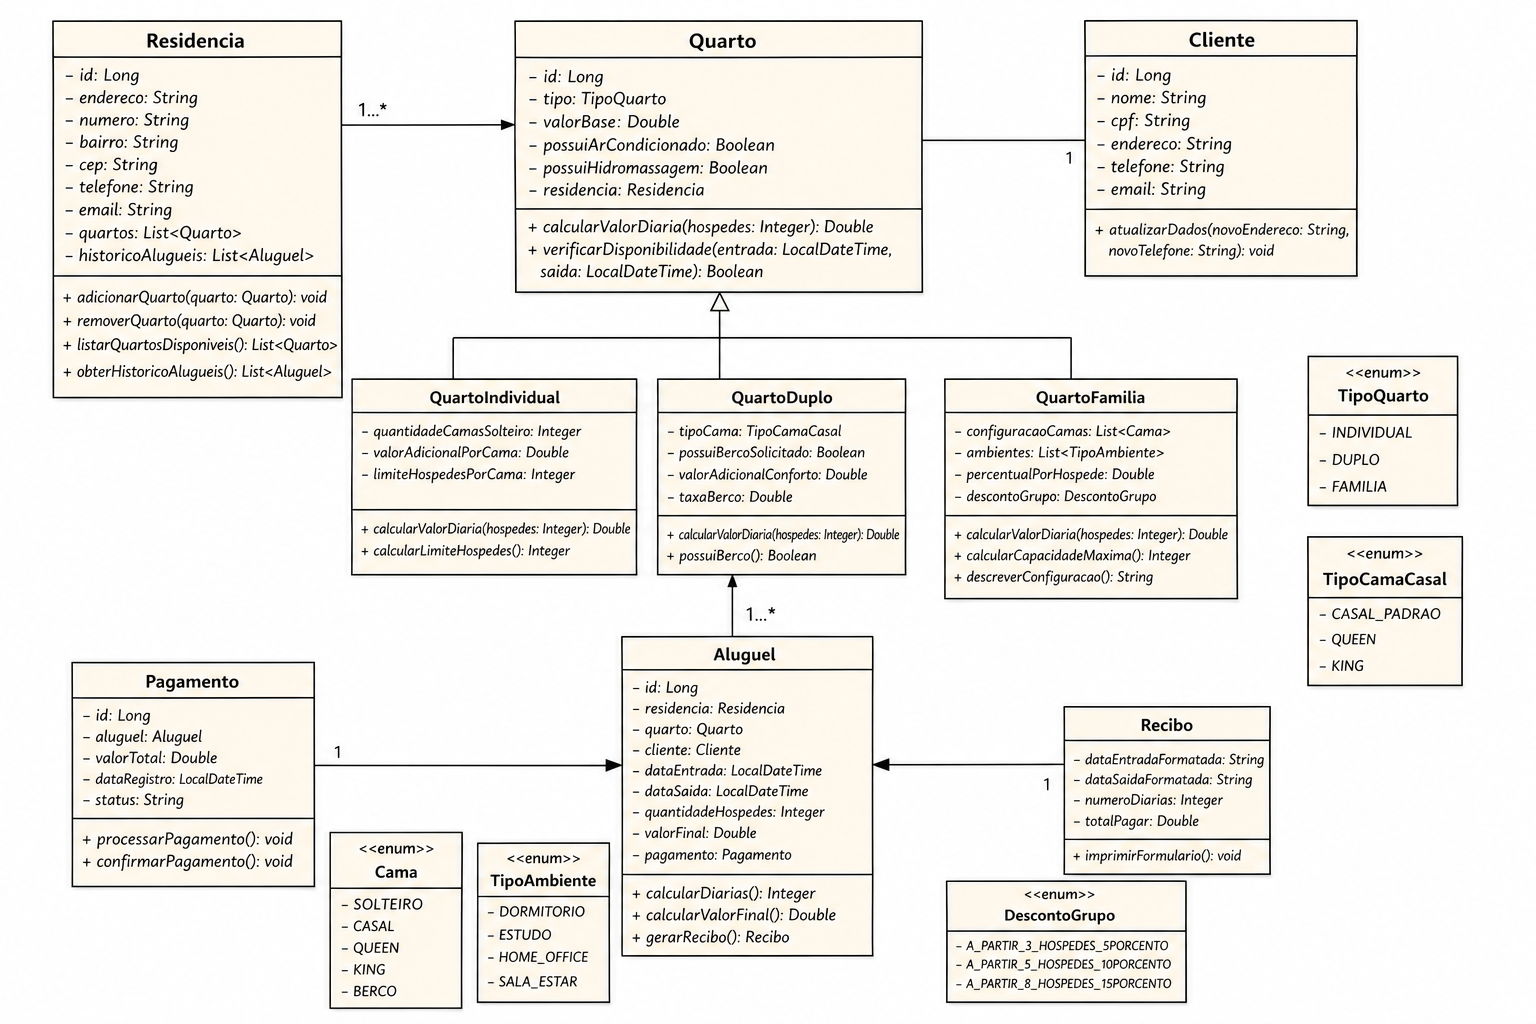
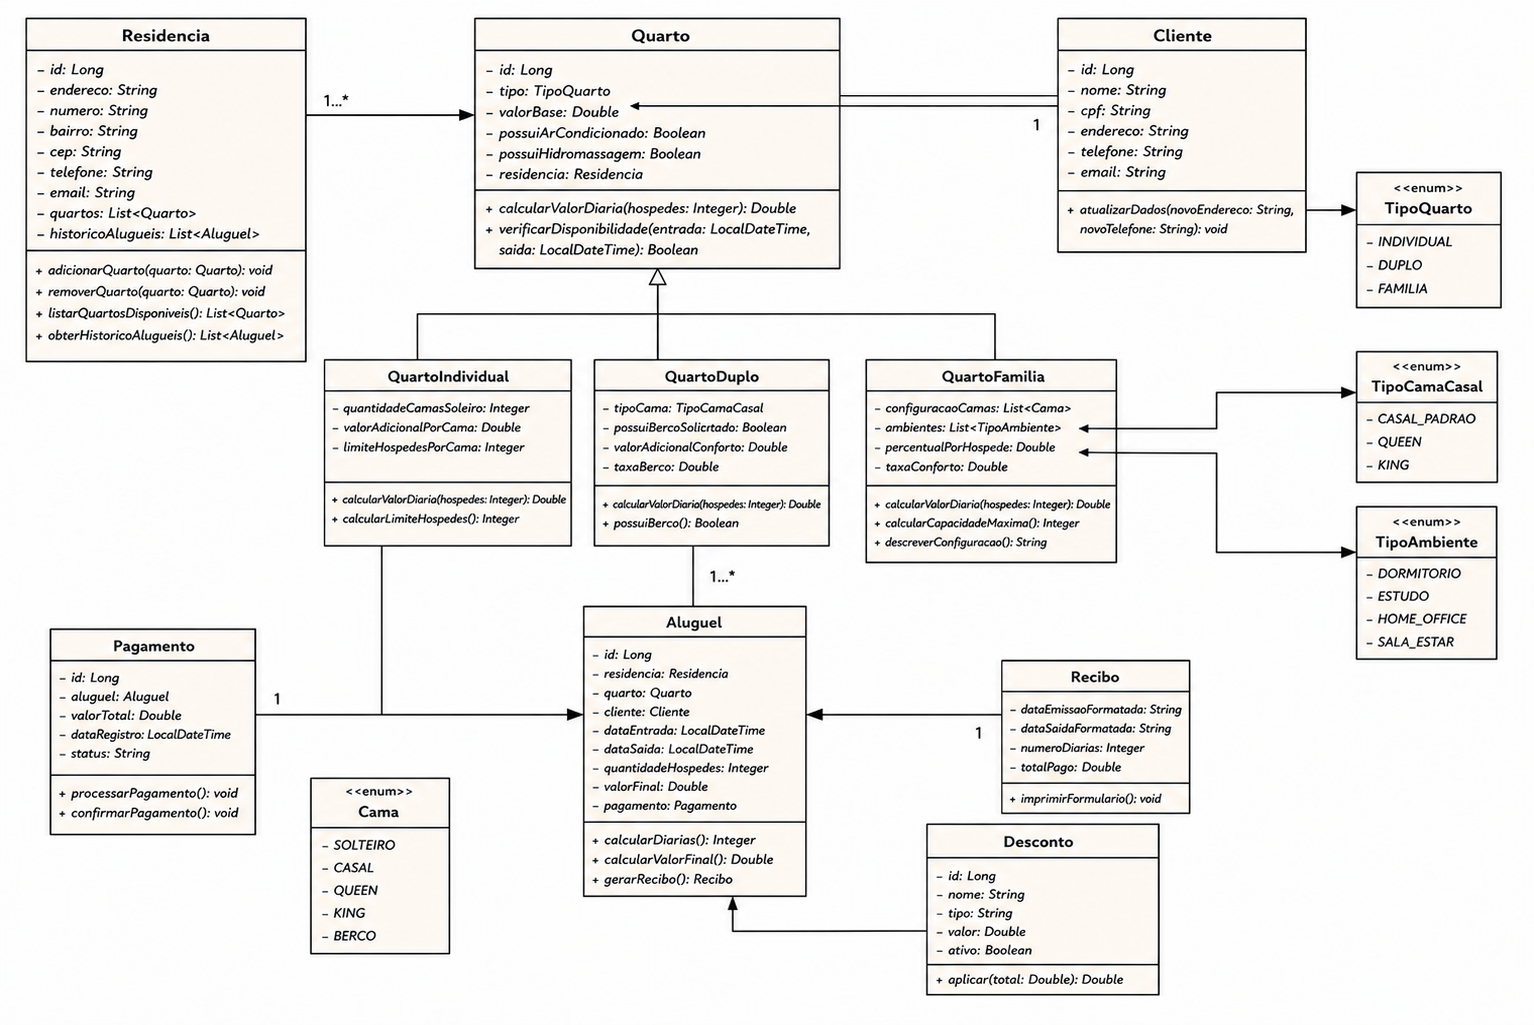
Testes

diff --git a/back/src/test/java/com/example/maraureserve/services/AluguelServiceTest.java b/back/src/test/java/com/example/maraureserve/services/AluguelServiceTest.java
@@ -1,127 +1,114 @@
 package com.example.maraureserve.services;
 
-import static org.junit.jupiter.api.Assertions.assertThrows;
-import static org.mockito.Mockito.verify;
-import static org.mockito.Mockito.verifyNoInteractions;
-import static org.mockito.Mockito.when;
+import static org.junit.jupiter.api.Assertions.*;
+import static org.mockito.Mockito.*;
 
 import java.math.BigDecimal;
 import java.time.LocalDateTime;
 import java.util.List;
 
+import org.junit.jupiter.api.BeforeEach;
 import org.junit.jupiter.api.Test;
 import org.junit.jupiter.api.extension.ExtendWith;
+import org.mockito.InjectMocks;
 import org.mockito.Mock;
 import org.mockito.junit.jupiter.MockitoExtension;
 
-import com.example.maraureserve.common.exception.BusinessException;
-import com.example.maraureserve.common.exception.DataInvalidaException;
-import com.example.maraureserve.common.exception.QuartoIndisponivelException;
 import com.example.maraureserve.dtos.AluguelRequest;
 import com.example.maraureserve.models.Aluguel;
 import com.example.maraureserve.models.Cliente;
 import com.example.maraureserve.models.Quarto;
 import com.example.maraureserve.models.Residencia;
-import com.example.maraureserve.models.TipoQuarto;
 import com.example.maraureserve.repositories.AluguelRepository;
+import com.example.maraureserve.common.exception.CapacidadeExcedidaException;
+import com.example.maraureserve.common.exception.RecursoNaoPermitidoException;
+import com.example.maraureserve.common.exception.QuartoIndisponivelException;
 
 @ExtendWith(MockitoExtension.class)
 class AluguelServiceTest {
 
     @Mock
     private AluguelRepository aluguelRepository;
-
     @Mock
     private ResidenciaService residenciaService;
-
     @Mock
     private QuartoService quartoService;
-
     @Mock
     private ClienteService clienteService;
 
-    @Test
-    void criarDeveLancarDataInvalidaExceptionQuandoCheckoutNaoForPosteriorAoCheckin() {
-        AluguelService service = criarService();
-        LocalDateTime dataEntrada = LocalDateTime.now().plusDays(3);
-        LocalDateTime dataSaida = dataEntrada.minusHours(1);
-        AluguelRequest request = criarRequest(dataEntrada, dataSaida);
+    @InjectMocks
+    private AluguelService aluguelService;
 
-        assertThrows(DataInvalidaException.class, () -> service.criar(request));
-        verifyNoInteractions(residenciaService, quartoService, clienteService, aluguelRepository);
+    private AluguelRequest requestValido;
+    private Residencia residencia;
+    private Quarto quarto;
+    private Cliente cliente;
+
+    @BeforeEach
+    void setUp() {
+        residencia = new Residencia();
+        residencia.setId(1L);
+
+        quarto = mock(Quarto.class);
+        when(quarto.getId()).thenReturn(1L);
+        when(quarto.getResidencia()).thenReturn(residencia);
+        
+        cliente = new Cliente();
+        cliente.setId(1L);
+
+        requestValido = new AluguelRequest(
+                1L, 
+                1L, 
+                1L, 
+                LocalDateTime.now().plusDays(1), 
+                LocalDateTime.now().plusDays(3), 
+                2, 
+                false
+        );
     }
 
     @Test
-    void criarDeveLancarDataInvalidaExceptionQuandoDatasForemNulas() {
-        AluguelService service = criarService();
-        AluguelRequest request = criarRequest(null, null);
-
-        assertThrows(DataInvalidaException.class, () -> service.criar(request));
-        verifyNoInteractions(residenciaService, quartoService, clienteService, aluguelRepository);
-    }
-
-    @Test
-    void criarDeveLancarQuartoIndisponivelExceptionQuandoExistirConflitoDePeriodo() {
-        AluguelService service = criarService();
-        LocalDateTime dataEntrada = LocalDateTime.now().plusDays(3);
-        LocalDateTime dataSaida = dataEntrada.plusDays(2);
-        AluguelRequest request = criarRequest(dataEntrada, dataSaida);
-        Residencia residencia = criarResidencia();
-        Quarto quarto = criarQuarto(residencia);
-        Cliente cliente = criarCliente();
-
+    void testLimitesDeHospedes_CapacidadeExcedida_LancaExcecao() {
+        when(quarto.getCapacidadeMaxima()).thenReturn(1);
         when(residenciaService.buscarEntidade(1L)).thenReturn(residencia);
-        when(quartoService.buscarEntidade(2L)).thenReturn(quarto);
-        when(clienteService.buscarEntidade(3L)).thenReturn(cliente);
-        when(aluguelRepository.buscarConflitos(2L, dataEntrada, dataSaida, null))
+        when(quartoService.buscarEntidade(1L)).thenReturn(quarto);
+        when(clienteService.buscarEntidade(1L)).thenReturn(cliente);
+
+        assertThrows(CapacidadeExcedidaException.class, () -> {
+            aluguelService.criar(requestValido);
+        });
+    }
+
+    @Test
+    void testRegrasDeBerco_BercoSolicitadoENaoPermitido_LancaExcecao() {
+        AluguelRequest requestComBerco = new AluguelRequest(
+                1L, 1L, 1L, LocalDateTime.now().plusDays(1), LocalDateTime.now().plusDays(3), 2, true
+        );
+        
+        when(quarto.getCapacidadeMaxima()).thenReturn(4);
+        when(quarto.getPermiteBerco()).thenReturn(false);
+        when(residenciaService.buscarEntidade(1L)).thenReturn(residencia);
+        when(quartoService.buscarEntidade(1L)).thenReturn(quarto);
+        when(clienteService.buscarEntidade(1L)).thenReturn(cliente);
+
+        assertThrows(RecursoNaoPermitidoException.class, () -> {
+            aluguelService.criar(requestComBerco);
+        });
+    }
+
+    @Test
+    void testDisponibilidade_QuartoIndisponivel_LancaExcecao() {
+        when(quarto.getCapacidadeMaxima()).thenReturn(4);
+        when(quarto.getPermiteBerco()).thenReturn(true);
+        when(residenciaService.buscarEntidade(1L)).thenReturn(residencia);
+        when(quartoService.buscarEntidade(1L)).thenReturn(quarto);
+        when(clienteService.buscarEntidade(1L)).thenReturn(cliente);
+        
+        when(aluguelRepository.buscarConflitos(eq(1L), any(LocalDateTime.class), any(LocalDateTime.class), isNull()))
                 .thenReturn(List.of(new Aluguel()));
 
-        assertThrows(QuartoIndisponivelException.class, () -> service.criar(request));
-    }
-
-    @Test
-    void cancelarDeveLancarBusinessExceptionQuandoReservaJaIniciou() {
-        AluguelService service = criarService();
-        Aluguel aluguel = new Aluguel();
-        aluguel.setId(10L);
-        aluguel.setDataEntrada(LocalDateTime.now().minusDays(1));
-        aluguel.setDataSaida(LocalDateTime.now().plusDays(1));
-
-        when(aluguelRepository.findById(10L)).thenReturn(java.util.Optional.of(aluguel));
-
-        assertThrows(BusinessException.class, () -> service.cancelar(10L));
-        verify(aluguelRepository).findById(10L);
-        verifyNoInteractions(residenciaService, quartoService, clienteService);
-    }
-
-    private AluguelService criarService() {
-        return new AluguelService(aluguelRepository, residenciaService, quartoService, clienteService);
-    }
-
-    private AluguelRequest criarRequest(LocalDateTime dataEntrada, LocalDateTime dataSaida) {
-        return new AluguelRequest(1L, 2L, 3L, dataEntrada, dataSaida, 2, false);
-    }
-
-    private Residencia criarResidencia() {
-        Residencia residencia = new Residencia();
-        residencia.setId(1L);
-        return residencia;
-    }
-
-    private Quarto criarQuarto(Residencia residencia) {
-        Quarto quarto = new Quarto();
-        quarto.setId(2L);
-        quarto.setResidencia(residencia);
-        quarto.setTipo(TipoQuarto.FAMILIA);
-        quarto.setValorBase(BigDecimal.valueOf(200));
-        quarto.setCapacidadeMaxima(4);
-        quarto.setPermiteBerco(false);
-        return quarto;
-    }
-
-    private Cliente criarCliente() {
-        Cliente cliente = new Cliente();
-        cliente.setId(3L);
-        return cliente;
+        assertThrows(QuartoIndisponivelException.class, () -> {
+            aluguelService.criar(requestValido);
+        });
     }
 }

diff --git a/back/src/test/java/com/example/maraureserve/services/QuartoTest.java b/back/src/test/java/com/example/maraureserve/services/QuartoTest.java
@@ -1,0 +1,68 @@
+package com.example.maraureserve.models;
+
+import static org.junit.jupiter.api.Assertions.*;
+
+import java.math.BigDecimal;
+import org.junit.jupiter.api.Test;
+
+class QuartoTest {
+
+    @Test
+    void testCalculoDiaria_QuartoIndividual_ComAdicionalDeCama() {
+        QuartoIndividual quarto = new QuartoIndividual();
+        quarto.setValorBase(BigDecimal.valueOf(100.0));
+        quarto.setQuantidadeCamasSolteiro(2);
+        quarto.setValorAdicionalPorCama(BigDecimal.valueOf(30.0));
+        
+        // Regra: ValorBase (100) + adicional (30) para 2ª cama
+        BigDecimal valorEsperado = BigDecimal.valueOf(130.0);
+        BigDecimal valorCalculado = quarto.calcularValorDiaria(2, false);
+        
+        assertEquals(0, valorEsperado.compareTo(valorCalculado));
+    }
+
+    @Test
+    void testCalculoDiaria_QuartoDuplo_SemBerco_ComAdicionalConforto() {
+        QuartoDuplo quarto = new QuartoDuplo();
+        quarto.setValorBase(BigDecimal.valueOf(150.0));
+        quarto.setTipoCama(TipoCamaCasal.QUEEN);
+        quarto.setValorAdicionalConforto(BigDecimal.valueOf(50.0)); 
+        quarto.setTaxaBerco(BigDecimal.valueOf(40.0));
+        
+        // Regra: ValorBase (150) + adicional conforto (50)
+        BigDecimal valorEsperado = BigDecimal.valueOf(200.0);
+        BigDecimal valorCalculado = quarto.calcularValorDiaria(2, false);
+        
+        assertEquals(0, valorEsperado.compareTo(valorCalculado));
+    }
+
+    @Test
+    void testCalculoDiaria_QuartoDuplo_ComTaxaDeBerco() {
+        QuartoDuplo quarto = new QuartoDuplo();
+        quarto.setValorBase(BigDecimal.valueOf(150.0));
+        quarto.setTipoCama(TipoCamaCasal.CASAL_PADRAO);
+        quarto.setValorAdicionalConforto(BigDecimal.ZERO);
+        quarto.setTaxaBerco(BigDecimal.valueOf(40.0));
+        
+        // Regra: ValorBase (150) + taxa berço (40)
+        BigDecimal valorEsperado = BigDecimal.valueOf(190.0);
+        BigDecimal valorCalculado = quarto.calcularValorDiaria(2, true);
+        
+        assertEquals(0, valorEsperado.compareTo(valorCalculado));
+    }
+
+    @Test
+    void testCalculoDiaria_QuartoFamilia_ComDescontoParaGrupo() {
+        QuartoFamilia quarto = new QuartoFamilia();
+        quarto.setValorBase(BigDecimal.valueOf(200.0));
+        quarto.setPercentualPorHospede(BigDecimal.valueOf(0.10)); // 10% por hóspede
+        quarto.setDescontoGrupo(DescontoGrupo.A_PARTIR_5_HOSPEDES_10PORCENTO);
+        
+        // Regra: 5 hóspedes = +50% no valor base (200 + 100 = 300)
+        // Desconto de grupo = -10% sobre 300 (300 - 30 = 270)
+        BigDecimal valorEsperado = BigDecimal.valueOf(270.0);
+        BigDecimal valorCalculado = quarto.calcularValorDiaria(5, false);
+        
+        assertEquals(0, valorEsperado.compareTo(valorCalculado));
+    }
+}

diff --git a/back/src/test/java/com/example/maraureserve/services/PagamentoTest.java b/back/src/test/java/com/example/maraureserve/services/PagamentoTest.java
@@ -1,0 +1,51 @@
+package com.example.maraureserve.models;
+
+import static org.junit.jupiter.api.Assertions.*;
+
+import java.math.BigDecimal;
+
+import org.junit.jupiter.api.BeforeEach;
+import org.junit.jupiter.api.Test;
+
+class PagamentoTest {
+
+    private Pagamento pagamento;
+    private Aluguel aluguel;
+
+    @BeforeEach
+    void setUp() {
+        aluguel = new Aluguel();
+        aluguel.setValorFinal(BigDecimal.valueOf(1500.00));
+
+        pagamento = new Pagamento();
+        pagamento.setAluguel(aluguel);
+    }
+
+    @Test
+    void testProcessarPagamento_InicializaValoresEStatusPendente() {
+        pagamento.processarPagamento();
+
+        assertNotNull(pagamento.getDataRegistro(), "A data de registro deve ser preenchida ao processar.");
+        assertEquals("PENDENTE", pagamento.getStatus(), "O status inicial deve ser PENDENTE.");
+        assertEquals(aluguel.getValorFinal(), pagamento.getValorTotal(), "O valor do pagamento deve ser igual ao valor final do aluguel.");
+    }
+
+    @Test
+    void testConfirmarPagamento_AlteraStatusParaConfirmado() {
+        pagamento.processarPagamento();
+        pagamento.confirmarPagamento();
+
+        assertEquals("CONFIRMADO", pagamento.getStatus(), "O status deve ser alterado para CONFIRMADO após a confirmação.");
+    }
+
+    @Test
+    void testConfirmarPagamento_SemProcessar_LancaExcecao() {
+        // Regra de negócio: não é possível confirmar um pagamento que não tenha sido processado anteriormente
+        Exception exception = assertThrows(IllegalStateException.class, () -> {
+            pagamento.confirmarPagamento();
+        });
+
+        String mensagemEsperada = "O pagamento precisa ser processado antes de ser confirmado";
+        assertTrue(exception.getMessage().contains(mensagemEsperada));
+    }
+}
